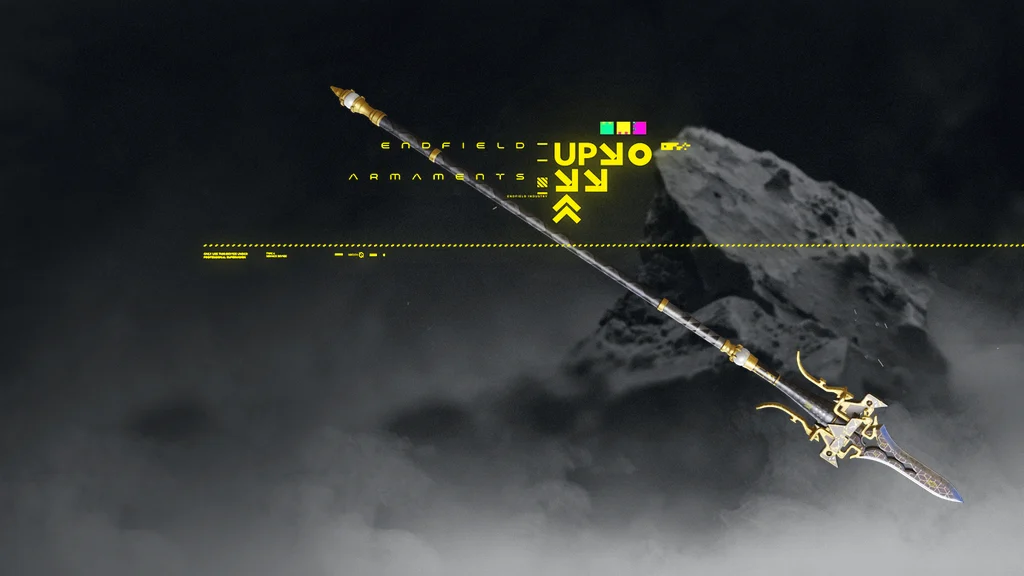
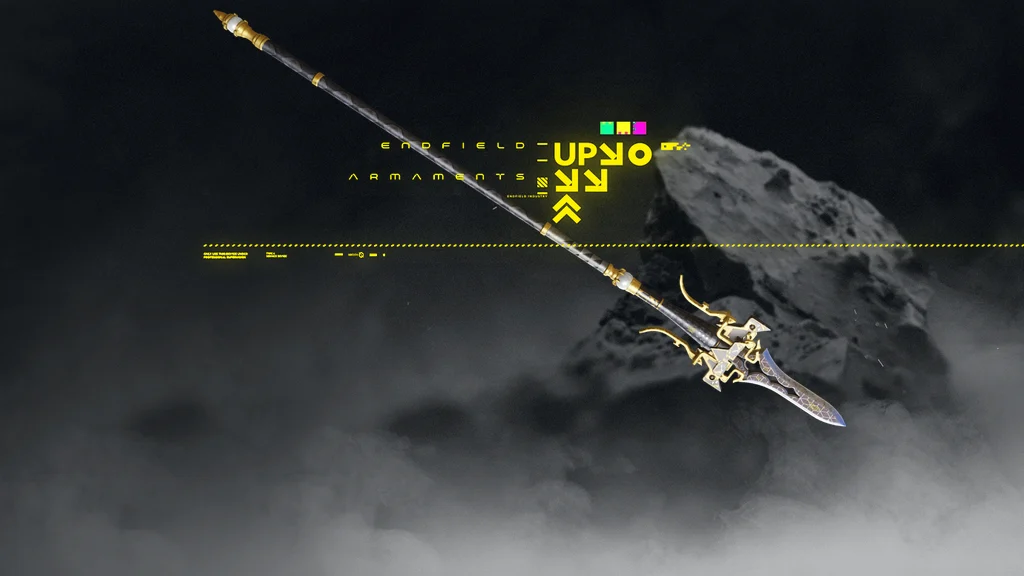
Point Issue guns up-right and bring lance heads under UP
Guns are mirrored to point right and tilted muzzle up-right, grip down.
Lances slide 140 px up-left along their shaft so the head sits just under
the UP ornaments; the butt may run off the top-left.

diff --git a/scripts/issue-banner.py b/scripts/issue-banner.py
@@ -16,6 +16,7 @@ tip-up, guns pointing left) or, with --guide, the version guide's weapon
 
 Needs Pillow and NumPy.
 """
+import math
 import os
 import sys
 
@@ -39,11 +40,16 @@ ARMAMENTS = (830, 425, 1610, 720)
 LONG_BOX = (25 + SHIFT, 65, 665 + SHIFT, 525)      # swords, greatswords, lances
 PISTOL_BOX = (120 + SHIFT, 190, 580 + SHIFT, 480)
 COMPACT_SIZE, COMPACT_CENTRE = 310, (405 + SHIFT, 300)  # arts units
+# Lances slide this far up-left along their shaft, bringing the head up to
+# the UP ornaments; the butt may leave the banner.
+LANCE_SLIDE = 140
 
 # Turning a wiki render the official way, degrees counter-clockwise: blades
-# hilt top-right, tip down-left; lances butt top-left, head down-right; guns
-# tilted muzzle down-left, grip still down; arts units mirrored.
-TURN = {'sword': 135, 'claym': 118, 'lance': -123, 'pistol': 36, 'funnel': 0}
+# hilt top-right, tip down-left; lances butt top-left, head down-right
+# (33 degrees below level); arts units mirrored. Guns are mirrored to point
+# right, then tilted muzzle up-right, grip down.
+TURN = {'sword': 135, 'claym': 118, 'lance': -123, 'pistol': 30, 'funnel': 0}
+LANCE_ANGLE = math.radians(33)
 # Weapons whose official banner shows them mirrored.
 MIRRORED = {'wpn_sword_0022'}  # Lupine Scarlet
 
@@ -79,7 +85,7 @@ def trim(im):
 
 def orient(weapon, weapon_id):
     kind = weapon_id.split('_')[1]
-    if kind == 'funnel' or weapon_id in MIRRORED:
+    if kind in ('funnel', 'pistol') or weapon_id in MIRRORED:
         weapon = weapon.transpose(Image.FLIP_LEFT_RIGHT)
     if TURN[kind]:
         weapon = trim(weapon.rotate(TURN[kind], expand=True, resample=Image.BICUBIC))
@@ -103,6 +109,8 @@ def banner(weapon_id, render, from_guide=False):
         weapon, at = fit(weapon, (cx - h, cy - h, cx + h, cy + h))
     else:
         weapon, at = fit(weapon, PISTOL_BOX if kind == 'pistol' else LONG_BOX)
+    if kind == 'lance':
+        at = (at[0] - round(LANCE_SLIDE * math.cos(LANCE_ANGLE)), at[1] - round(LANCE_SLIDE * math.sin(LANCE_ANGLE)))
     out = backdrop()
     out.alpha_composite(weapon, at)
     out.alpha_composite(ornaments())  # in front of the weapon, like the official banners
